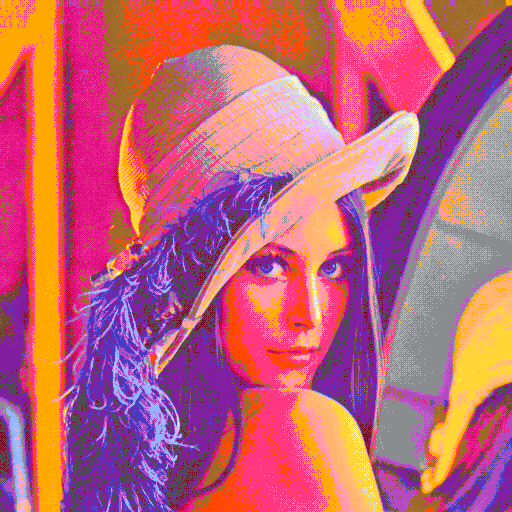
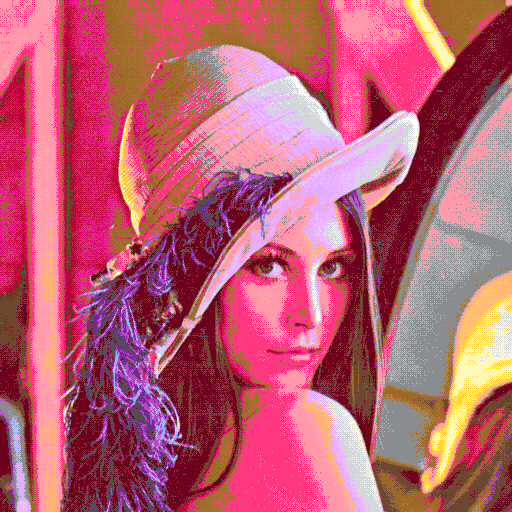
fixed not using the blue channel for kmeans calculation

diff --git a/src/lib.rs b/src/lib.rs
@@ -239,7 +239,7 @@ pub struct I2PState {
     pub palette: Vec<Color>,
     pub quant_cluster_list: Vec<Vec<Color>>,
     pub quant_centroid_list: Vec<Color>,
-    pub quant_assignment: Vec<i32>,
+    pub quant_assignment: Vec<usize>,
     pub quant_k: i32,
 }
 
@@ -300,11 +300,11 @@ impl Sprite {
 
 pub fn process_image(s: &mut I2PState, input: &Sprite, output: &mut Sprite) {
     let mut temp = sample_image(s, input, output.width, output.height);
-    let gamma_factor = s.img_gamma as f32 / 100.0;
+    let gamma_factor = s.img_gamma as f64 / 100.0;
     let contrast_factor =
-        (259.0 * (255.0 + s.contrast as f32)) / (255.0 * (259.0 - s.contrast as f32));
-    let saturation_factor = s.saturation as f32 / 100.0;
-    let brightness_factor = s.brightness as f32 / 100.0;
+        (259.0 * (255.0 + s.contrast as f64)) / (255.0 * (259.0 - s.contrast as f64));
+    let saturation_factor = s.saturation as f64 / 100.0;
+    let brightness_factor = s.brightness as f64 / 100.0;
 
     let t = (1.0 - contrast_factor) / 2.0;
     let sr = (1.0 - saturation_factor) * 0.3086;
@@ -339,20 +339,20 @@ pub fn process_image(s: &mut I2PState, input: &Sprite, output: &mut Sprite) {
                 input = Rgba::from_color(hsv).into_format();
             }
 
-            let r = input.red as f32;
-            let g = input.green as f32;
-            let b = input.blue as f32;
+            let r = input.red as f64;
+            let g = input.green as f64;
+            let b = input.blue as f64;
             input.red = 0x0.max(0xff.min(((rr * r) + (gr * g) + (br * b) + wr) as u8));
             input.green = 0x0.max(0xff.min(((rg * r) + (gg * g) + (bg * b) + wg) as u8));
             input.blue = 0x0.max(0xff.min(((rb * r) + (gb * g) + (bb * b) + wb) as u8));
 
             if s.img_gamma != 100 {
                 input.red = 0x0
-                    .max(0xff.min((255.0 * (input.red as f32 / 255.0).powf(gamma_factor)) as u8));
+                    .max(0xff.min((255.0 * (input.red as f64 / 255.0).powf(gamma_factor)) as u8));
                 input.green = 0x0
-                    .max(0xff.min((255.0 * (input.green as f32 / 255.0).powf(gamma_factor)) as u8));
+                    .max(0xff.min((255.0 * (input.green as f64 / 255.0).powf(gamma_factor)) as u8));
                 input.blue = 0x0
-                    .max(0xff.min((255.0 * (input.blue as f32 / 255.0).powf(gamma_factor)) as u8));
+                    .max(0xff.min((255.0 * (input.blue as f64 / 255.0).powf(gamma_factor)) as u8));
             }
 
             input.alpha = a;
@@ -584,7 +584,7 @@ fn cubic_hermite(a: f32, b: f32, c: f32, d: f32, t: f32) -> f32 {
    let c_ = -a / 2.0 + c / 2.0;
    let d_ = b;
 
-   return a_ * t * t * t + b_ * t * t + c_ * t + d_;
+   a_ * t * t * t + b_ * t * t + c_ * t + d_
 }
 
 fn sample_lanczos(s: &I2PState, input: &Sprite, width: usize, height: usize) -> Vec<Color> {
@@ -680,7 +680,7 @@ fn dither_image(
     }
 }
 
-fn dither_kmeans(state: &mut I2PState, input: Vec<palette::Alpha<palette::rgb::Rgb<palette::rgb::Rgb, u8>, u8>>, output: &mut Sprite, width: usize, height: usize) {
+fn dither_kmeans(state: &mut I2PState, input: Vec<Color>, output: &mut Sprite, width: usize, height: usize) {
     match state.pixel_process_mode {
         ProcessMode::Bayer8x8 => dither_threshold_apply(
             state,
@@ -738,7 +738,7 @@ fn dither_kmeans(state: &mut I2PState, input: Vec<palette::Alpha<palette::rgb::R
         if output.data[i].alpha == 0 {
             output.data[i] = Default::default();
         } else {
-            output.data[i] = state.palette[state.quant_assignment[i] as usize];
+            output.data[i] = state.palette[state.quant_assignment[i]];
         }
     }
 }
@@ -811,7 +811,7 @@ fn quant_compute_kmeans(state: &mut I2PState, data: &Sprite, pal_in: i32) {
     let mut previous_variance = vec![1.0; state.quant_k as usize];
     let mut variance: f64;
     let mut delta: f64;
-    let mut delta_max: f64;
+    let mut delta_max: f64 = 0.0;
     let threshold = 0.00005;
 
     loop {
@@ -821,16 +821,16 @@ fn quant_compute_kmeans(state: &mut I2PState, data: &Sprite, pal_in: i32) {
         for i in 0..data.width * data.height {
             let color = data.data[i];
             state.quant_assignment[i] =
-                quant_nearest_color_idx(state, color, &state.quant_centroid_list);
-            state.quant_cluster_list[state.quant_assignment[i] as usize].push(color);
+                quant_nearest_color_idx(color, &state.quant_centroid_list);
+            state.quant_cluster_list[state.quant_assignment[i]].push(color);
         }
 
-        delta_max = 0.0;
+
         for i in 0..state.quant_k {
-            variance = quant_colors_variance(&state.quant_cluster_list[i as usize]);
-            delta = (previous_variance[i as usize] - variance).abs();
-            delta_max = delta_max.max(delta);
-            previous_variance[i as usize] = variance;
+             variance = quant_colors_variance(&state.quant_cluster_list[i as usize]);
+             delta = (previous_variance[i as usize] - variance).abs();
+             delta_max = delta_max.max(delta);
+             previous_variance[i as usize] = variance;
         }
 
         iter += 1;
@@ -842,11 +842,11 @@ fn quant_compute_kmeans(state: &mut I2PState, data: &Sprite, pal_in: i32) {
 
 fn quant_colors_variance(color_list: &[Color]) -> f64 {
     let length = color_list.len();
-    let mean = quant_colors_mean(color_list, Color::default(), 0);
+    let mean = quant_colors_mean(color_list, Color::new(0, 0, 0, 0), 0);
     let dist_sum: f64 = color_list
         .iter()
         .map(|c| {
-            let dist = quant_distance(&c, mean);
+            let dist = quant_distance(*c, mean);
             dist * dist
         })
         .sum();
@@ -854,13 +854,13 @@ fn quant_colors_variance(color_list: &[Color]) -> f64 {
     dist_sum / length as f64
 }
 
-fn quant_nearest_color_idx(state: &I2PState, color: Color, color_list: &[Color]) -> i32 {
-    let mut dist_min = 4095.0;
+fn quant_nearest_color_idx(color: Color, color_list: &[Color]) -> usize {
+    let mut dist_min = f64::MAX;
     let mut dist: f64;
     let mut idx = 0;
 
-    for i in 0..state.quant_k {
-        dist = quant_distance(&color, color_list[i as usize]);
+    for (i, list_col) in color_list.iter().enumerate() {
+        dist = quant_distance(color, *list_col);
         if dist < dist_min {
             dist_min = dist;
             idx = i;
@@ -870,7 +870,7 @@ fn quant_nearest_color_idx(state: &I2PState, color: Color, color_list: &[Color])
     idx
 }
 
-fn quant_distance(color0: &Color, color1: Color) -> f64 {
+fn quant_distance(color0: Color, color1: Color) -> f64 {
     let mr = 0.5 * (color0.red as f64 + color1.red as f64);
     let dr = color0.red as f64 - color1.red as f64;
     let dg = color0.green as f64 - color1.green as f64;
@@ -898,7 +898,7 @@ fn quant_get_cluster_centroid(
                 );
             } else {
                 state.quant_centroid_list[i as usize] =
-                    quant_colors_mean(&state.quant_cluster_list[i as usize], Default::default(), 0);
+                    quant_colors_mean(&state.quant_cluster_list[i as usize], Color::new(0, 0, 0, 0), 0);
             }
         } else if pal_in != 0 {
             state.quant_centroid_list[i as usize] = state.palette[i as usize];
@@ -924,7 +924,7 @@ fn quant_colors_mean(color_list: &[Color], color: Color, palette_weight: i32) ->
     for color in color_list {
         r += color.red as i32;
         g += color.green as i32;
-        b += color.green as i32;
+        b += color.blue as i32;
     }
 
     let mut weight_color = palette_weight;
@@ -942,5 +942,5 @@ fn quant_colors_mean(color_list: &[Color], color: Color, palette_weight: i32) ->
         b /= length;
     }
 
-    Color::new(r as u8, g as u8, b as u8, 255)
+    Color::new(r as u8, g as u8, b as u8, 0)
 }

diff --git a/src/main.rs b/src/main.rs
@@ -3,40 +3,41 @@ use charity_pixelization::{process_image, Color, I2PState, Sprite};
 
 fn main() {
     let palette = [
-    "6D001AFF",
-    "BE0039FF",
-    "FF4500FF",
-    "FFA800FF",
-    "FFD635FF",
-    "FFF8B8FF",
-    "00A368FF",
-    "00CC78FF",
-    "7EED56FF",
-    "00756FFF",
-    "009EAAFF",
-    "00CCC0FF",
-    "2450A4FF",
-    "3690EAFF",
-    "51E9F4FF",
-    "493AC1FF",
-    "6A5CFFFF",
-    "94B3FFFF",
-    "811E9FFF",
-    "B44AC0FF",
-    "E4ABFFFF",
-    "DE107FFF",
-    "FF3881FF",
-    "FF99AAFF",
-    "6D482FFF",
-    "9C6926FF",
-    "FFB470FF",
-    "000000FF",
-    "515252FF",
-    "898D90FF",
-    "D4D7D9FF",
-    "FFFFFFFF"];
+    "#6D001AFF",
+    "#BE0039FF",
+    "#FF4500FF",
+    "#FFA800FF",
+    "#FFD635FF",
+    "#FFF8B8FF",
+    "#00A368FF",
+    "#00CC78FF",
+    "#7EED56FF",
+    "#00756FFF",
+    "#009EAAFF",
+    "#00CCC0FF",
+    "#2450A4FF",
+    "#3690EAFF",
+    "#51E9F4FF",
+    "#493AC1FF",
+    "#6A5CFFFF",
+    "#94B3FFFF",
+    "#811E9FFF",
+    "#B44AC0FF",
+    "#E4ABFFFF",
+    "#DE107FFF",
+    "#FF3881FF",
+    "#FF99AAFF",
+    "#6D482FFF",
+    "#9C6926FF",
+    "#FFB470FF",
+    "#000000FF",
+    "#515252FF",
+    "#898D90FF",
+    "#D4D7D9FF",
+    "#FFFFFFFF"];
     let mut state = I2PState {
         pixel_distance_mode: charity_pixelization::DistanceMode::KMeans,
+        pixel_process_mode: charity_pixelization::ProcessMode::Bayer8x8,
         palette: palette.iter().map(|c| c.parse().unwrap()).collect(),
         ..Default::default()
     };
